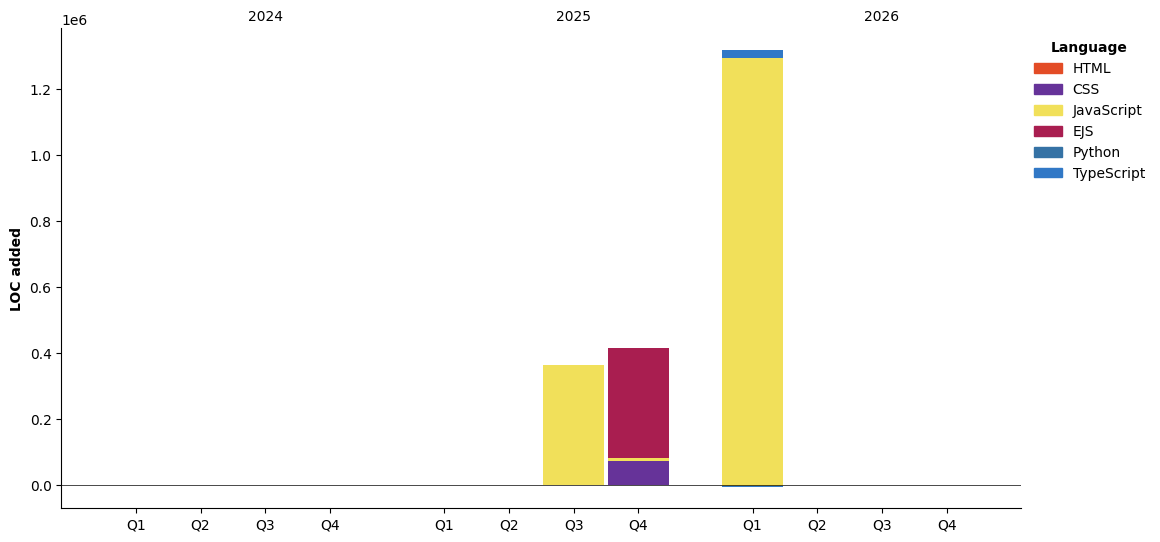
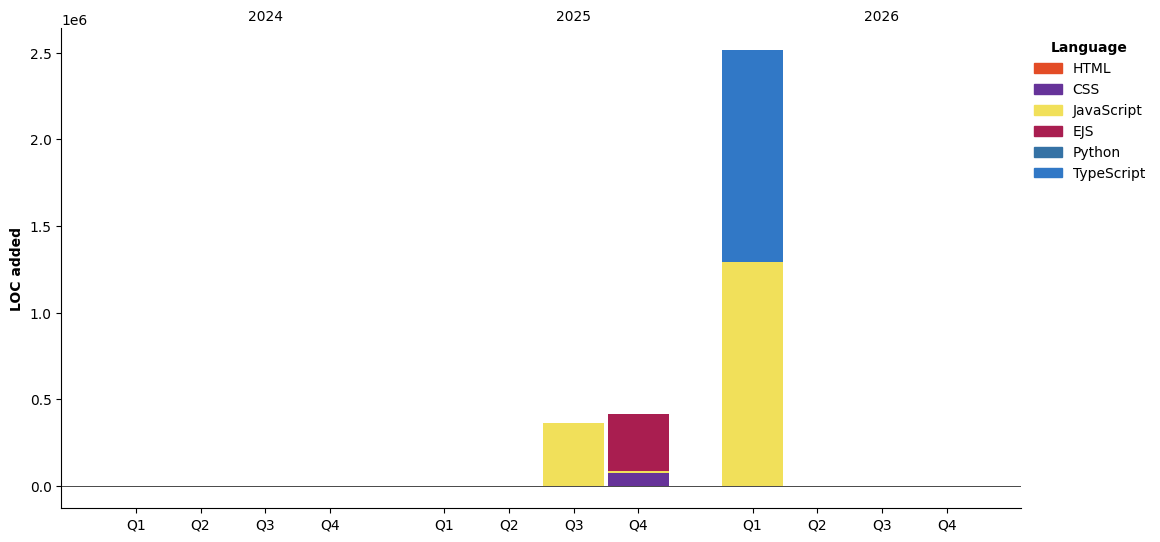
Updated with Dev Metrics

diff --git a/README.md b/README.md
@@ -114,6 +114,84 @@ Most people build projects. I focus on understanding and engineering them.
 ## 📈 Activity
 
 <!--START_SECTION:waka-->
+![Code Time](http://img.shields.io/badge/Code%20Time-111%20hrs%2012%20mins-blue?style=flat)
+
+![Profile Views](http://img.shields.io/badge/Profile%20Views-1-blue?style=flat)
+
+**🐱 My GitHub Data** 
+
+> 📦 ? Used in GitHub's Storage 
+ > 
+> 🏆 158 Contributions in the Year 2026
+ > 
+> 🚫 Not Opted to Hire
+ > 
+> 📜 40 Public Repositories 
+ > 
+> 🔑 0 Private Repositories 
+ > 
+**I'm a Night 🦉** 
+
+```text
+🌞 Morning                27 commits          ██░░░░░░░░░░░░░░░░░░░░░░░   09.68 % 
+🌆 Daytime                70 commits          ██████░░░░░░░░░░░░░░░░░░░   25.09 % 
+🌃 Evening                181 commits         ████████████████░░░░░░░░░   64.87 % 
+🌙 Night                  1 commits           ░░░░░░░░░░░░░░░░░░░░░░░░░   00.36 % 
+```
+📅 **I'm Most Productive on Sunday** 
+
+```text
+Monday                   48 commits          ████░░░░░░░░░░░░░░░░░░░░░   17.20 % 
+Tuesday                  34 commits          ███░░░░░░░░░░░░░░░░░░░░░░   12.19 % 
+Wednesday                44 commits          ████░░░░░░░░░░░░░░░░░░░░░   15.77 % 
+Thursday                 44 commits          ████░░░░░░░░░░░░░░░░░░░░░   15.77 % 
+Friday                   32 commits          ███░░░░░░░░░░░░░░░░░░░░░░   11.47 % 
+Saturday                 27 commits          ██░░░░░░░░░░░░░░░░░░░░░░░   09.68 % 
+Sunday                   50 commits          ████░░░░░░░░░░░░░░░░░░░░░   17.92 % 
+```
+
+
+📊 **This Week I Spent My Time On** 
+
+```text
+🕑 Time Zone: Asia/Kolkata
+
+💬 Programming Languages: 
+TypeScript               1 hr 25 mins        ██████████████████░░░░░░░   70.59 % 
+Markdown                 34 mins             ███████░░░░░░░░░░░░░░░░░░   28.42 % 
+Bash                     0 secs              ░░░░░░░░░░░░░░░░░░░░░░░░░   00.66 % 
+Git Config               0 secs              ░░░░░░░░░░░░░░░░░░░░░░░░░   00.33 % 
+
+🔥 Editors: 
+VS Code                  2 hrs               █████████████████████████   100.00 % 
+
+🐱💻 Projects: 
+SmartBillr               1 hr 24 mins        █████████████████░░░░░░░░   69.59 % 
+Konnect                  35 mins             ███████░░░░░░░░░░░░░░░░░░   29.13 % 
+Practise                 1 min               ░░░░░░░░░░░░░░░░░░░░░░░░░   01.28 % 
+
+💻 Operating System: 
+Linux                    2 hrs               █████████████████████████   100.00 % 
+```
+
+**I Mostly Code in JavaScript** 
+
+```text
+JavaScript               17 repos            ██████████░░░░░░░░░░░░░░░   41.46 % 
+CSS                      9 repos             █████░░░░░░░░░░░░░░░░░░░░   21.95 % 
+HTML                     7 repos             ████░░░░░░░░░░░░░░░░░░░░░   17.07 % 
+TypeScript               4 repos             ██░░░░░░░░░░░░░░░░░░░░░░░   09.76 % 
+EJS                      1 repo              █░░░░░░░░░░░░░░░░░░░░░░░░   02.44 % 
+```
+
+
+
+**Timeline**
+
+![Lines of Code chart](https://raw.githubusercontent.com/Anos714/Anos714/main/assets/bar_graph.png)
+
+
+ Last Updated on 27/03/2026 01:46:03 UTC
 <!--END_SECTION:waka-->
 
 ---
